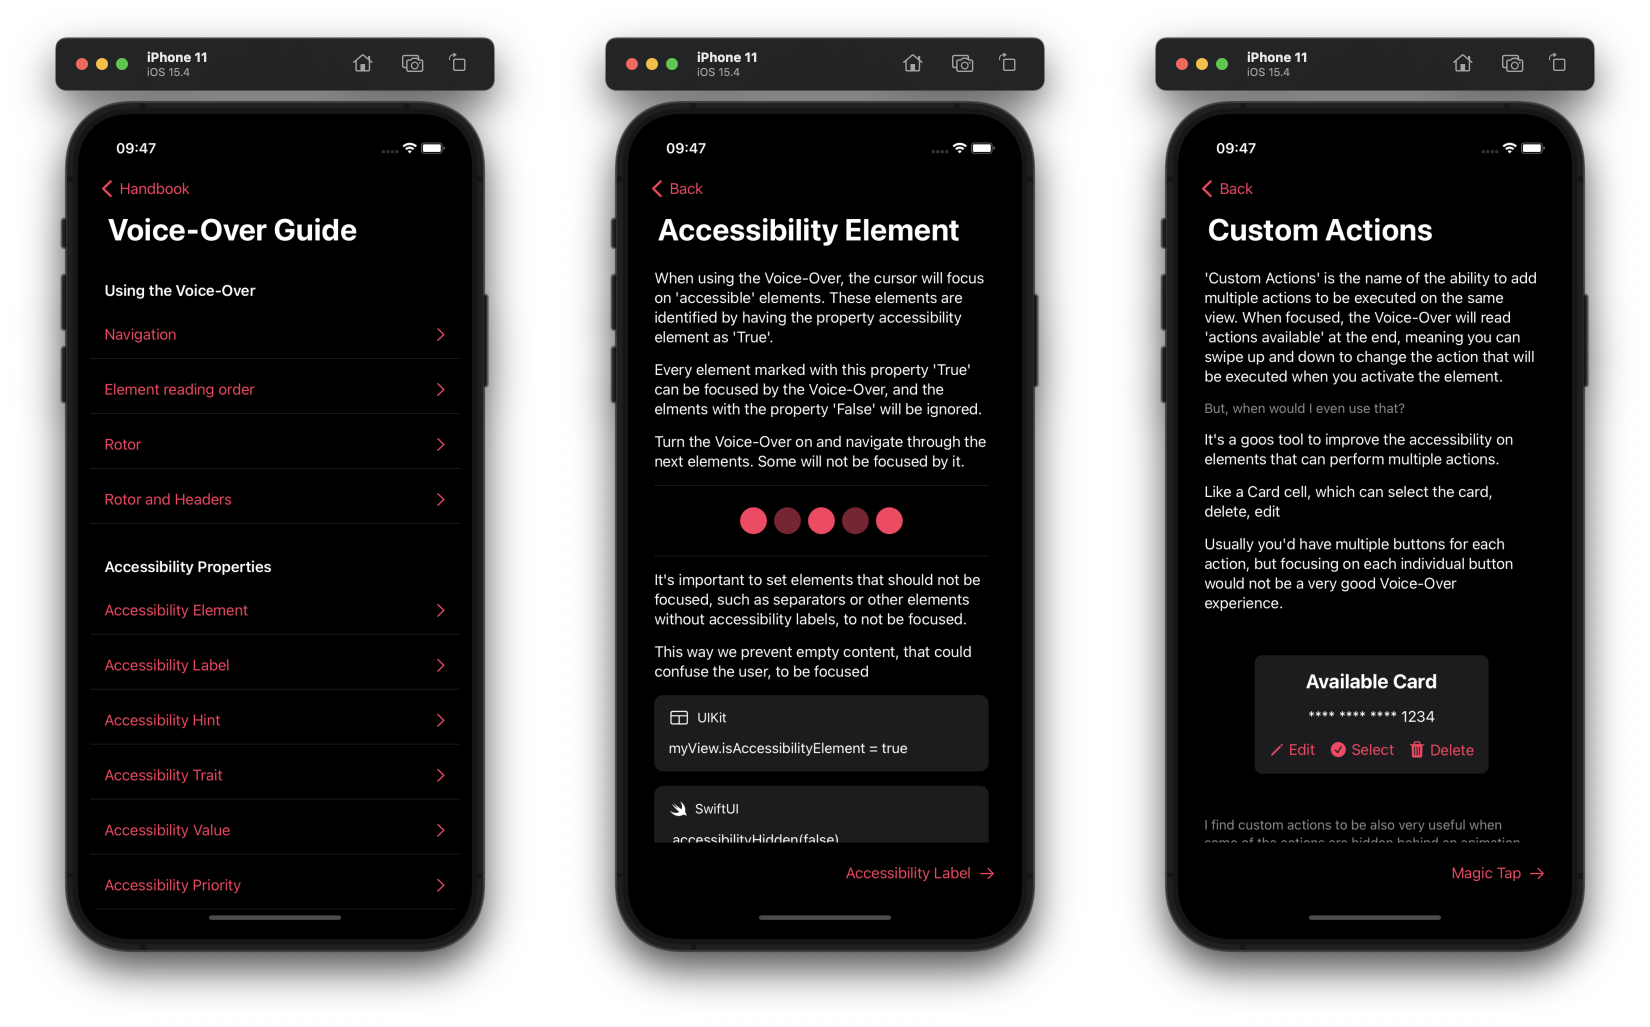
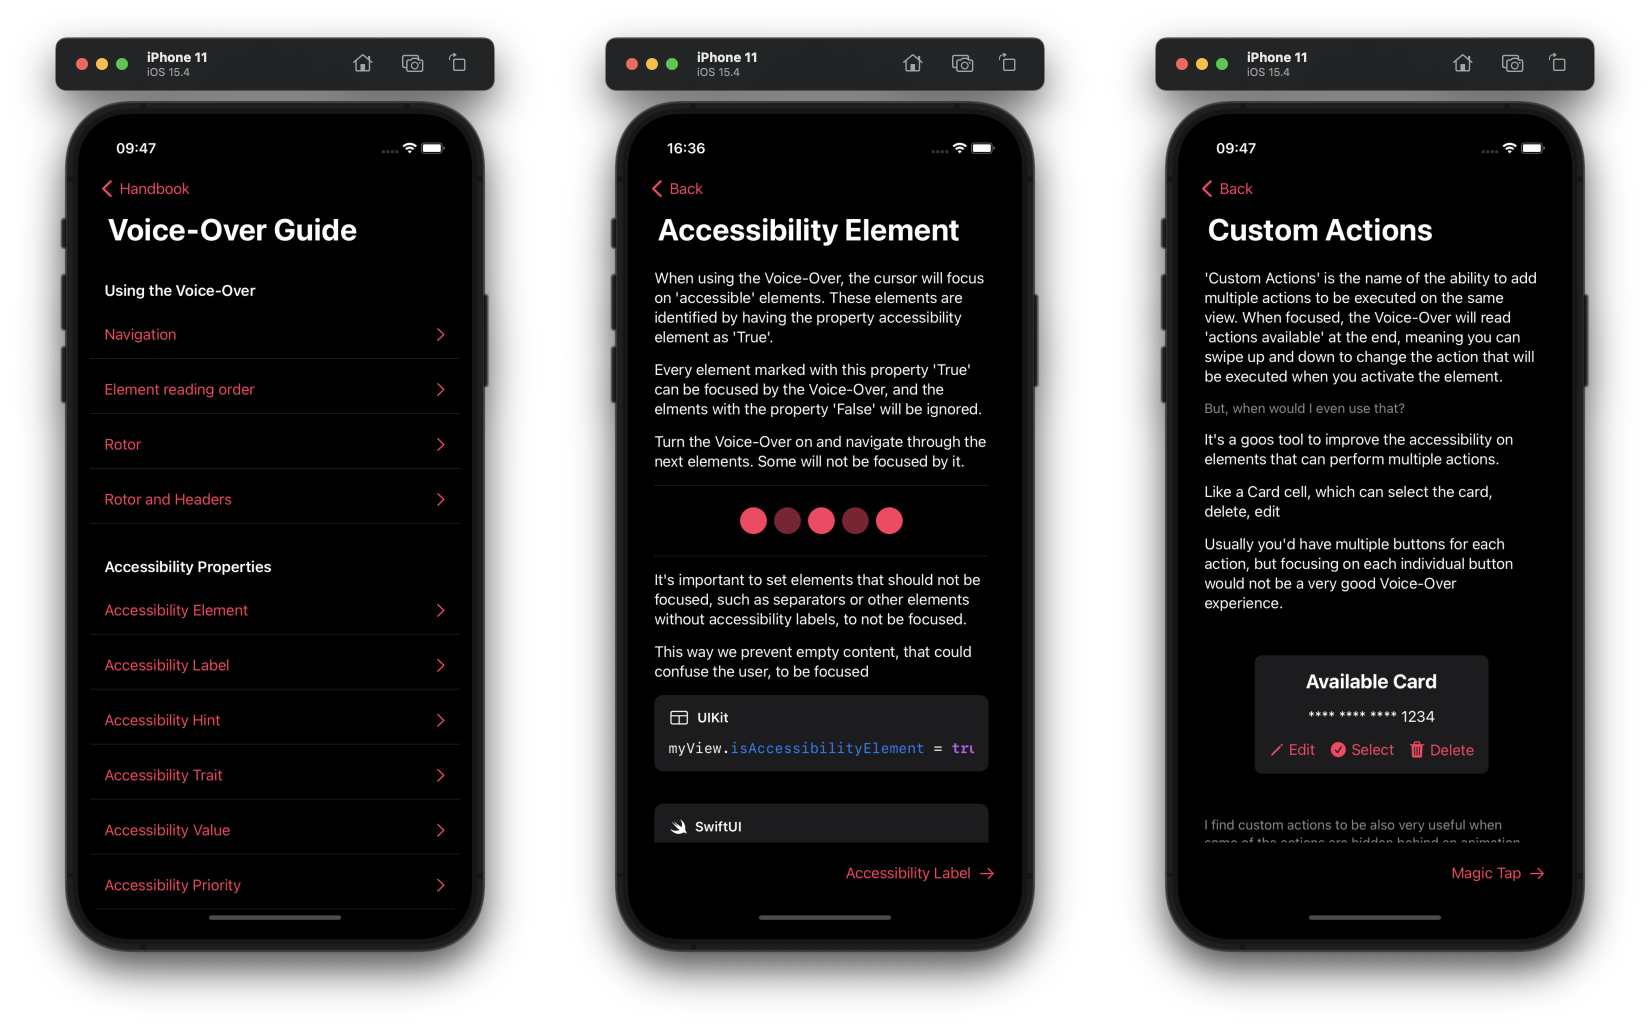
Update readme

Changed region(s): [[0.4018, 0.7167, 0.6182, 0.8413], [0.4018, 0.1246, 0.4327, 0.1558]]

diff --git a/README.md b/README.md
@@ -14,9 +14,14 @@ The Accessibility Handbook started as an idea with some colleagues and friends, 
 
 ### Guides
 
-Find an extensive documentation of accessibility features and how to implement them with real-life examples.
+Find an extensive documentation of accessibility features and options with real examples so you can try them for yourself while using the app.
 
 ![Image with example of the app running, displaying some of the Voice-Over guide pages](img/guides.png)
+
+Also, code examples of how to implement each of them directly on the app!
+You don't need to open the source code to take a quick look on the syntaxes, or just to just remind how to implement something.
+
+![Image with example of source codes example on the app](img/codes.png)
 
 ### The Handbook Game
 
